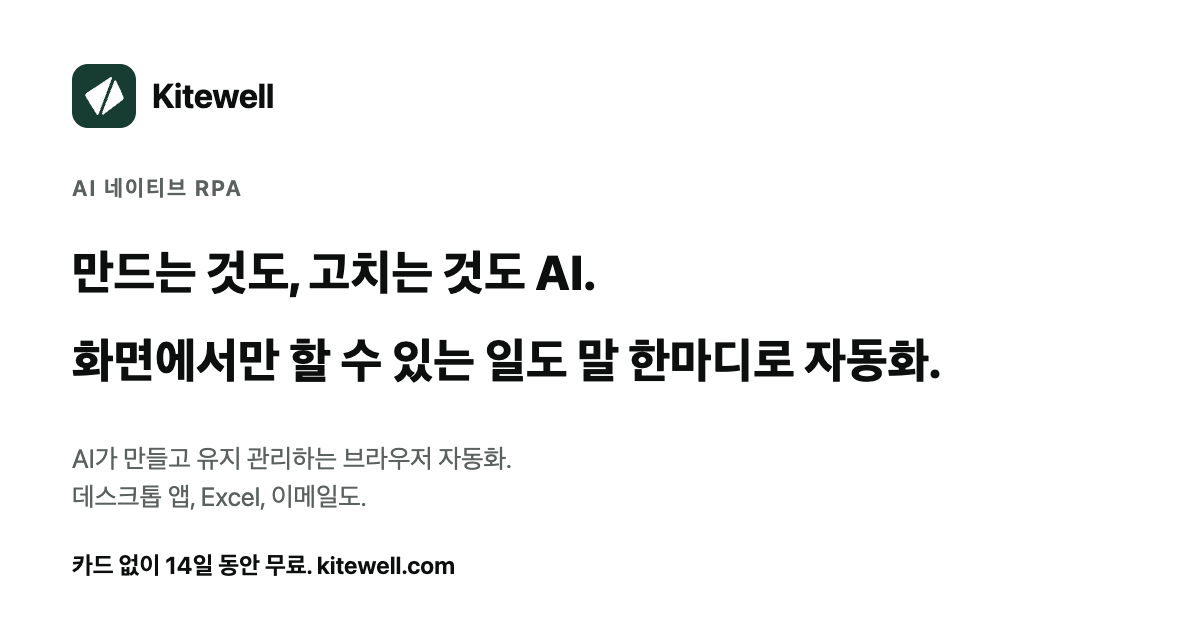
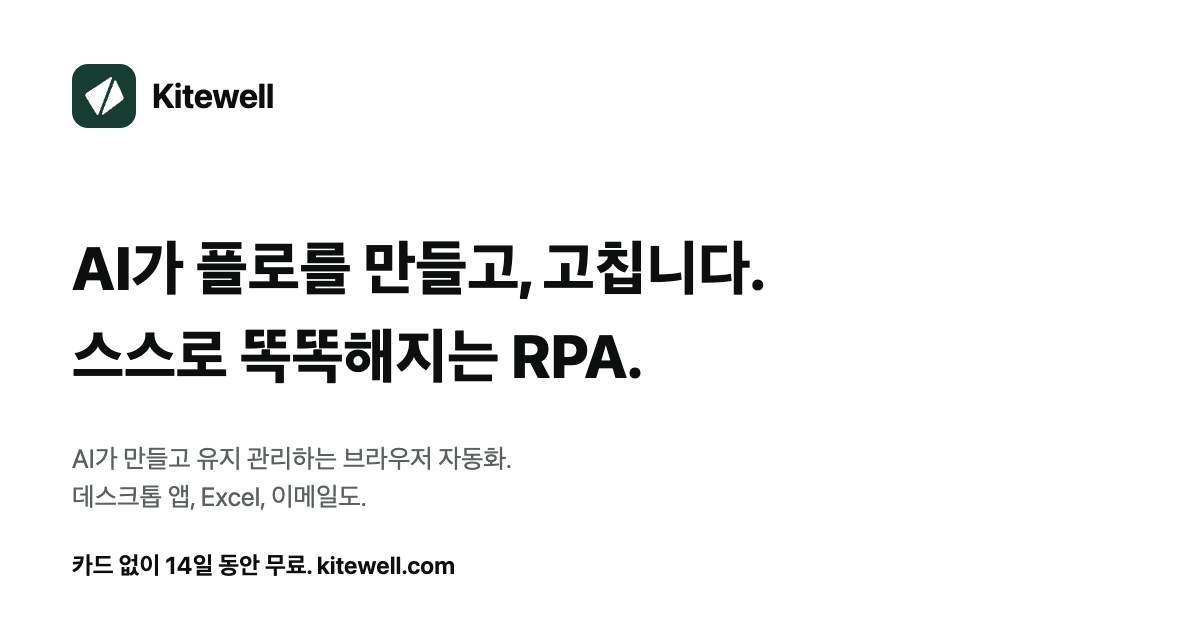
Lead with RPA that gets smarter on its own
Say what the product is in the headline: AI builds the flows and
fixes them, and the RPA gets smarter on its own. Naming the category
tells a first-time reader what this is, so the eyebrow that repeated
it goes.

Cut the lead to two sentences around a job people recognize.

Changed region(s): [[0.0617, 0.3619, 0.6475, 0.4825], [0.0617, 0.5127, 0.8017, 0.6333], [0.0617, 0.2714, 0.2158, 0.3317]]

diff --git a/website/src/styles/home.css b/website/src/styles/home.css
@@ -16,12 +16,6 @@
 :is(:lang(ja), :lang(zh), :lang(ko)) .home .intro h1 {
   font-size: clamp(32px, 4.8vw, 60px);
 }
-.home #hero-title {
-  font-size: clamp(36px, 4.6vw, 60px);
-}
-:is(:lang(ja), :lang(zh), :lang(ko)) .home #hero-title {
-  font-size: clamp(28px, 4vw, 52px);
-}
 .intro-lead {
   max-width: 44em;
   margin-top: 24px;

diff --git a/README.ja.md b/README.ja.md
@@ -9,7 +9,7 @@
   </a>
 </p>
 
-<h1 align="center">作るのも、直すのも、AI。<br>画面でしかできない仕事も、頼むだけで自動に。</h1>
+<h1 align="center">AI がフローをつくる、なおす。<br>自動的に賢くなる RPA。</h1>
 
 <p align="center">
   やってほしい仕事を伝えれば、AI が目の前のブラウザーで自動化をつくり、サイトが変わったら直します。デスクトップアプリ、Excel、メール、Claude Code などのコーディングエージェントも同じように、スケジュールや Webhook で、大事なところはあなたの OK を待って動きます。外出先からも、スマホで見守れます。

diff --git a/README.md b/README.md
@@ -9,7 +9,7 @@
   </a>
 </p>
 
-<h1 align="center">AI builds it. AI fixes it.<br>Ask once, and screen-only work runs itself.</h1>
+<h1 align="center">AI builds your flows and fixes them.<br>RPA that gets smarter on its own.</h1>
 
 <p align="center">
   Describe the job, and AI builds the automation in a browser you can watch,
